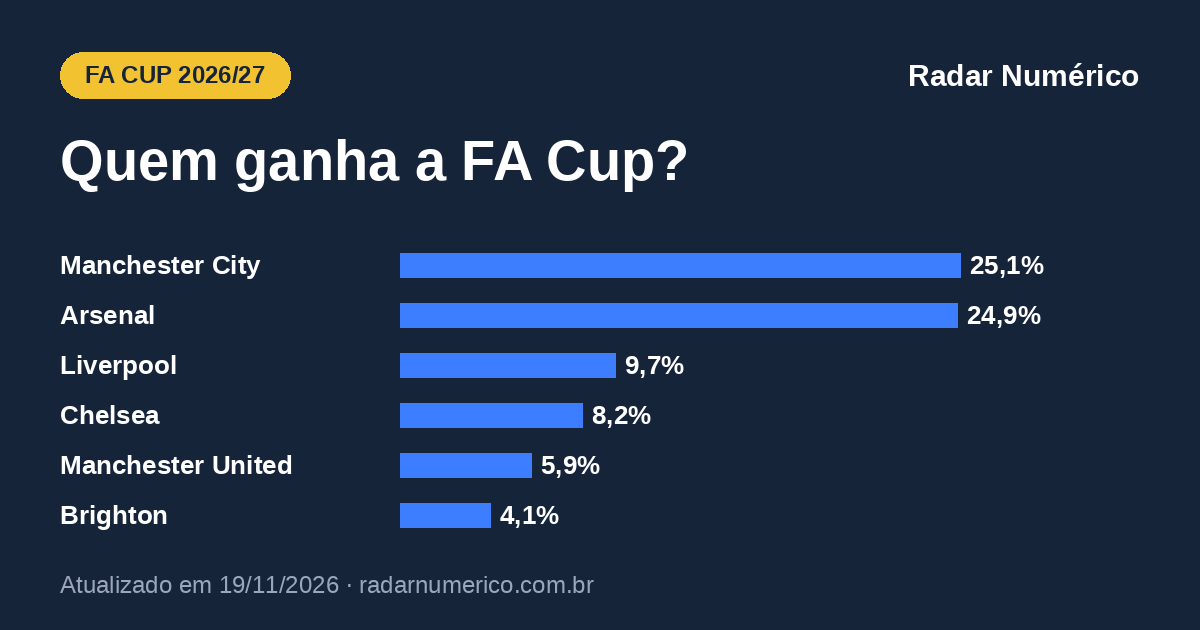
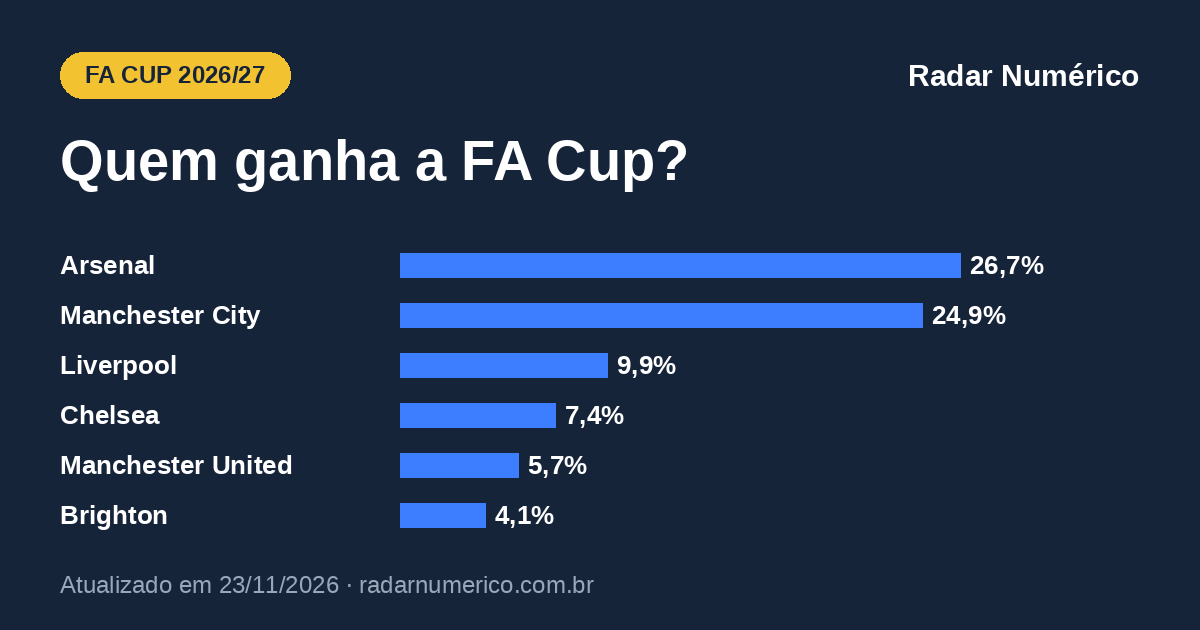
Ranking, ligas e copas europeias: atualização semanal 2026-11-23 - futebol/fa-cup
Claude-Session: https://claude.ai/code/session_014c9M3oryqlsr8hzscwb7oa

diff --git a/futebol/fa-cup/index.html b/futebol/fa-cup/index.html
@@ -13,11 +13,11 @@
 <meta property="og:title" content="FA Cup 2026/27: chances de título de cada time">
 <meta property="og:description" content="Probabilidades da FA Cup 2026/27: chance de cada time chegar às quartas, à semifinal, à final e de ser campeão.">
 <meta property="og:url" content="https://radarnumerico.com.br/futebol/fa-cup/">
-<meta property="og:image" content="https://radarnumerico.com.br/futebol/fa-cup/og.png?v=202611190848">
+<meta property="og:image" content="https://radarnumerico.com.br/futebol/fa-cup/og.png?v=202611230848">
 <meta property="og:image:width" content="1200">
 <meta property="og:image:height" content="630">
 <meta name="twitter:card" content="summary_large_image">
-<script type="application/ld+json">{"@context": "https://schema.org", "@graph": [{"@type": "WebPage", "@id": "https://radarnumerico.com.br/futebol/fa-cup/", "url": "https://radarnumerico.com.br/futebol/fa-cup/", "name": "FA Cup 2026/27: chances de título de cada time", "description": "Probabilidades da FA Cup 2026/27: chance de cada time chegar às quartas, à semifinal, à final e de ser campeão.", "inLanguage": "pt-BR", "dateModified": "2026-11-19T08:48:00-03:00", "isPartOf": {"@type": "WebSite", "name": "Radar Numérico", "url": "https://radarnumerico.com.br/"}, "about": {"@type": "Thing", "name": "FA Cup 2026/27"}}, {"@type": "BreadcrumbList", "itemListElement": [{"@type": "ListItem", "position": 1, "name": "Radar Numérico", "item": "https://radarnumerico.com.br/"}, {"@type": "ListItem", "position": 2, "name": "FA Cup 2026/27: probabilidades", "item": "https://radarnumerico.com.br/futebol/fa-cup/"}]}]}</script>
+<script type="application/ld+json">{"@context": "https://schema.org", "@graph": [{"@type": "WebPage", "@id": "https://radarnumerico.com.br/futebol/fa-cup/", "url": "https://radarnumerico.com.br/futebol/fa-cup/", "name": "FA Cup 2026/27: chances de título de cada time", "description": "Probabilidades da FA Cup 2026/27: chance de cada time chegar às quartas, à semifinal, à final e de ser campeão.", "inLanguage": "pt-BR", "dateModified": "2026-11-23T08:48:00-03:00", "isPartOf": {"@type": "WebSite", "name": "Radar Numérico", "url": "https://radarnumerico.com.br/"}, "about": {"@type": "Thing", "name": "FA Cup 2026/27"}}, {"@type": "BreadcrumbList", "itemListElement": [{"@type": "ListItem", "position": 1, "name": "Radar Numérico", "item": "https://radarnumerico.com.br/"}, {"@type": "ListItem", "position": 2, "name": "FA Cup 2026/27: probabilidades", "item": "https://radarnumerico.com.br/futebol/fa-cup/"}]}]}</script>
 <link rel="icon" type="image/png" href="/favicon.png">
 <link rel="apple-touch-icon" href="/apple-touch-icon.png">
 <link rel="preconnect" href="https://fonts.googleapis.com">
@@ -441,8 +441,8 @@ table.mzf td.bc{color:#fff}
 <header class="pg">
   <div class="kicker">Futebol · Inglaterra</div>
   <h1>FA Cup 2026/27: chances de título de cada time</h1>
-  <div class="selo" id="selo"><span>Atualizado em <b>19/11/2026 às 08h48</b></span><span>fase atual: <b>3ª fase</b></span><span>44 times vivos</span></div>
-  <p class="lede">O favorito ao título da FA Cup é o <b>Manchester City</b>, com 25,1%, seguido por Arsenal (24,9%) e Liverpool (9,7%). Calculamos, para os 44 times vivos, a chance de chegar a cada fase, simulando os jogos já marcados e o sorteio das fases seguintes 20 mil vezes. O campeão ganha vaga na Liga Europa.</p>
+  <div class="selo" id="selo"><span>Atualizado em <b>23/11/2026 às 08h48</b></span><span>fase atual: <b>3ª fase</b></span><span>44 times vivos</span></div>
+  <p class="lede">O favorito ao título da FA Cup é o <b>Arsenal</b>, com 26,7%, seguido por Manchester City (24,9%) e Liverpool (9,9%). Calculamos, para os 44 times vivos, a chance de chegar a cada fase, simulando os jogos já marcados e o sorteio das fases seguintes 20 mil vezes. O campeão ganha vaga na Liga Europa.</p>
 </header>
 
 <section class="g" id="s-trilha">
@@ -500,7 +500,7 @@ table.mzf td.bc{color:#fff}
 
 <div class="metod">
   <p class="marca">Radar Numérico</p>
-  <p id="rodape">Probabilidades da FA Cup 2026/27 atualizadas em 19/11/2026 às 08h48.</p>
+  <p id="rodape">Probabilidades da FA Cup 2026/27 atualizadas em 23/11/2026 às 08h48.</p>
   <p>Como calculamos: um algoritmo desenvolvido pelo economista Augusto Pellegrini estima a força de cada time a partir das cotações de mercado de todos os seus jogos recentes, em todas as competições. Simulamos a copa 20 mil vezes: os jogos já marcados e, depois, o sorteio de cada fase. Empate em jogo único vai à prorrogação e aos pênaltis. Fonte: Radar Numérico.</p>
 </div>
 </main>
@@ -509,7 +509,7 @@ table.mzf td.bc{color:#fff}
 <div id="tip" role="tooltip"></div>
 <div id="toast" role="status"></div>
 <script>
-const D = {"slug":"fa-cup","nome":"FA Cup","gerado_em":"2026-11-19T08:48","tams":[64,32,16,8,4,2,1],"rot":["3ª fase","4ª fase","5ª fase","Quartas","Semifinal","Final","Campeão"],"atual_rot":"3ª fase","cai_antes":"","n_vivos":44,"times":{"Middlesbrough":{"id":"2307","fases":[1.0,0.6623,0.3755,0.1726,0.0642,0.0175,0.0037],"campeao":0.0037,"forca":53.2,"cab":false},"Bolton Wanderers":{"id":"2312","fases":[1.0,0.4073,0.1263,0.0285,0.0047,0.0007,0.0001],"campeao":0.0001,"forca":38.3,"cab":false},"Blackburn Rovers":{"id":"2322","fases":[1.0,0.4672,0.1689,0.0444,0.009,0.001,0.0],"campeao":0.0,"forca":41.6,"cab":false},"Sheffield United":{"id":"3863","fases":[1.0,0.5131,0.2057,0.0618,0.0135,0.0024,0.0002],"campeao":0.0002,"forca":44.3,"cab":false},"Bristol City":{"id":"2328","fases":[1.0,0.499,0.1926,0.0546,0.0112,0.0016,0.0001],"campeao":0.0001,"forca":43.2,"cab":false},"Coventry City":{"id":"2330","fases":[1.0,0.6058,0.298,0.1193,0.0369,0.0083,0.0016],"campeao":0.0016,"forca":49.3,"cab":false},"Cardiff City":{"id":"2331","fases":[1.0,0.512,0.205,0.0609,0.0132,0.0018,0.0003],"campeao":0.0003,"forca":44.3,"cab":false},"Brentford":{"id":"2333","fases":[1.0,0.7882,0.5616,0.3527,0.1907,0.0892,0.0336],"campeao":0.0336,"forca":62.2,"cab":false},"Ipswich":{"id":"2336","fases":[1.0,0.6309,0.3313,0.1416,0.0464,0.0131,0.0024],"campeao":0.0024,"forca":51.2,"cab":false},"Wolverhampton":{"id":"2337","fases":[1.0,0.5647,0.2613,0.0931,0.0263,0.0054,0.0007],"campeao":0.0007,"forca":47.3,"cab":false},"Wrexham":{"id":"3875","fases":[1.0,0.5193,0.2196,0.0681,0.0143,0.0025,0.0002],"campeao":0.0002,"forca":44.9,"cab":false},"Bournemouth":{"id":"2342","fases":[1.0,0.7644,0.5208,0.3116,0.1582,0.0682,0.0245],"campeao":0.0245,"forca":60.4,"cab":false},"Watford":{"id":"2344","fases":[1.0,0.4328,0.1417,0.032,0.0053,0.0007,0.0001],"campeao":0.0001,"forca":39.4,"cab":false},"Portsmouth":{"id":"2345","fases":[1.0,0.4253,0.1375,0.0318,0.005,0.0004,0.0],"campeao":0.0,"forca":39.0,"cab":false},"Millwall":{"id":"2347","fases":[1.0,0.4491,0.1538,0.0384,0.0058,0.0008,0.0001],"campeao":0.0001,"forca":40.5,"cab":false},"Burnley":{"id":"2352","fases":[1.0,0.5127,0.2107,0.0646,0.0142,0.0024,0.0001],"campeao":0.0001,"forca":44.0,"cab":false},"Chelsea":{"id":"2354","fases":[1.0,0.8401,0.6507,0.4546,0.2877,0.163,0.0817],"campeao":0.0817,"forca":66.5,"cab":false},"Manchester United":{"id":"2356","fases":[1.0,0.8152,0.6119,0.4131,0.2437,0.1292,0.0588],"campeao":0.0588,"forca":65.0,"cab":false},"Swansea City":{"id":"2358","fases":[1.0,0.45,0.1535,0.0374,0.0068,0.0008,0.0001],"campeao":0.0001,"forca":40.3,"cab":false},"Stoke City":{"id":"2359","fases":[1.0,0.5022,0.1975,0.0575,0.012,0.0016,0.0004],"campeao":0.0004,"forca":43.5,"cab":false},"Aston Villa":{"id":"2361","fases":[1.0,0.7496,0.5021,0.2905,0.1436,0.059,0.021],"campeao":0.021,"forca":59.8,"cab":false},"West Bromwich Albion":{"id":"2363","fases":[1.0,0.4849,0.1883,0.0524,0.0103,0.0014,0.0001],"campeao":0.0001,"forca":42.7,"cab":false},"Sunderland":{"id":"2364","fases":[1.0,0.6966,0.4128,0.2049,0.0833,0.0256,0.0073],"campeao":0.0073,"forca":55.3,"cab":false},"West Ham":{"id":"2365","fases":[1.0,0.6846,0.4014,0.1964,0.0765,0.0246,0.0061],"campeao":0.0061,"forca":54.7,"cab":false},"Tottenham":{"id":"2366","fases":[1.0,0.7678,0.5291,0.3162,0.161,0.0703,0.0261],"campeao":0.0261,"forca":60.6,"cab":false},"Stockport County":{"id":"3904","fases":[1.0,0.4482,0.1553,0.0384,0.0065,0.0011,0.0001],"campeao":0.0001,"forca":40.5,"cab":false},"Charlton Athletic":{"id":"2390","fases":[1.0,0.4252,0.1377,0.0313,0.0046,0.0006,0.0001],"campeao":0.0001,"forca":39.2,"cab":false},"Fulham":{"id":"2392","fases":[1.0,0.7279,0.4626,0.2549,0.1161,0.0425,0.0132],"campeao":0.0132,"forca":57.7,"cab":false},"Birmingham":{"id":"2393","fases":[1.0,0.5767,0.2691,0.0946,0.0256,0.0059,0.0011],"campeao":0.0011,"forca":48.0,"cab":false},"Leeds":{"id":"2394","fases":[1.0,0.7306,0.476,0.2619,0.1232,0.0481,0.015],"campeao":0.015,"forca":58.2,"cab":false},"Nottingham Forest":{"id":"2395","fases":[1.0,0.7106,0.4435,0.2352,0.1013,0.0355,0.0111],"campeao":0.0111,"forca":56.8,"cab":false},"Norwich":{"id":"2411","fases":[1.0,0.5256,0.2233,0.071,0.017,0.0026,0.0003],"campeao":0.0003,"forca":45.3,"cab":false},"Derby County":{"id":"1162","fases":[1.0,0.4414,0.148,0.0359,0.0061,0.0008,0.0001],"campeao":0.0001,"forca":40.0,"cab":false},"Queens Park Rangers":{"id":"1163","fases":[1.0,0.4643,0.1699,0.0434,0.008,0.0009,0.0001],"campeao":0.0001,"forca":41.3,"cab":false},"Brighton":{"id":"2497","fases":[1.0,0.7954,0.5746,0.3666,0.2031,0.0966,0.0406],"campeao":0.0406,"forca":62.6,"cab":false},"Leicester City":{"id":"2525","fases":[1.0,0.4702,0.1661,0.0423,0.0084,0.0012,0.0001],"campeao":0.0001,"forca":41.4,"cab":false},"Everton":{"id":"2526","fases":[1.0,0.7264,0.4591,0.2517,0.1137,0.0435,0.0123],"campeao":0.0123,"forca":57.7,"cab":false},"Newcastle":{"id":"2527","fases":[1.0,0.7827,0.5536,0.3432,0.187,0.0848,0.0341],"campeao":0.0341,"forca":61.7,"cab":false},"Manchester City":{"id":"2528","fases":[1.0,0.9055,0.7832,0.6434,0.5003,0.365,0.2507],"campeao":0.2507,"forca":74.1,"cab":false},"Arsenal":{"id":"2536","fases":[1.0,0.9013,0.7853,0.6455,0.4972,0.3626,0.2494],"campeao":0.2494,"forca":74.2,"cab":false},"Crystal Palace":{"id":"2537","fases":[1.0,0.6634,0.3726,0.1719,0.0624,0.0177,0.0043],"campeao":0.0043,"forca":53.3,"cab":false},"Liverpool":{"id":"2538","fases":[1.0,0.8458,0.6688,0.4865,0.3169,0.188,0.0966],"campeao":0.0966,"forca":67.9,"cab":false},"Southampton":{"id":"2539","fases":[1.0,0.5925,0.2925,0.1124,0.0323,0.0078,0.0015],"campeao":0.0015,"forca":49.0,"cab":false},"Hull City":{"id":"2540","fases":[1.0,0.5346,0.2354,0.0773,0.0198,0.003,0.0002],"campeao":0.0002,"forca":45.7,"cab":false}},"ordem":["Manchester City","Arsenal","Liverpool","Chelsea","Manchester United","Brighton","Newcastle","Brentford","Tottenham","Bournemouth","Aston Villa","Leeds","Fulham","Everton","Nottingham Forest","Sunderland","West Ham","Crystal Palace","Middlesbrough","Ipswich","Coventry City","Southampton","Birmingham","Wolverhampton","Stoke City","Norwich","Cardiff City","Hull City","Wrexham","Sheffield United","Burnley","Bristol City","West Bromwich Albion","Leicester City","Queens Park Rangers","Millwall","Stockport County","Swansea City","Derby County","Watford","Charlton Athletic","Bolton Wanderers","Blackburn Rovers","Portsmouth"],"confrontos":[],"finais":[{"a":"Manchester City","b":"Arsenal","p":0.0862,"pa":0.4933},{"a":"Arsenal","b":"Liverpool","p":0.043,"pa":0.6388},{"a":"Manchester City","b":"Liverpool","p":0.0408,"pa":0.6438},{"a":"Chelsea","b":"Arsenal","p":0.0366,"pa":0.3265},{"a":"Chelsea","b":"Manchester City","p":0.036,"pa":0.3384},{"a":"Manchester United","b":"Arsenal","p":0.0294,"pa":0.3152}],"outros":0.0,"matriz":{"tipo":"sorteio","linhas":[["Manchester City",0.365],["Arsenal",0.3626],["Liverpool",0.188],["Chelsea",0.163],["Manchester United",0.1292]],"colunas":[["Arsenal",0.3626],["Liverpool",0.188],["Chelsea",0.163],["Manchester United",0.1292],["Brighton",0.0966]],"cel":[[0.0862,0.0408,0.036,0.0278,0.0226],[null,0.043,0.0366,0.0294,0.02],[null,null,0.0146,0.0131,0.0088],[null,null,null,0.0114,0.0076],[null,null,null,null,0.006]]},"chave":{"fases":["4ª fase","5ª fase","Quartas","Semifinal","Final"],"jogos":[[null,null],[null,null],[null,null],[null,null],[null,null],[null,null],[null,null],[null,null],[null,null],[null,null],[null,null],[null,null],[null,null],[null,null],[null,null],[null,null]],"atual":false,"p":null,"fixa":false},"SIGLA":{"Middlesbrough":"MID","Bolton Wanderers":"BOL","Blackburn Rovers":"BLA","Sheffield United":"SHE","Bristol City":"BRI","Coventry City":"COV","Cardiff City":"CAR","Brentford":"BRE","Ipswich":"IPS","Wolverhampton":"WOL","Wrexham":"WRE","Bournemouth":"BOU","Watford":"WAT","Portsmouth":"POR","Millwall":"MIL","Burnley":"BUR","Chelsea":"CHE","Manchester United":"MUN","Swansea City":"SWA","Stoke City":"STO","Aston Villa":"AVL","West Bromwich Albion":"WES","Sunderland":"SUN","West Ham":"WES","Tottenham":"TOT","Stockport County":"STO","Charlton Athletic":"CHA","Fulham":"FUL","Birmingham":"BIR","Leeds":"LEE","Nottingham Forest":"NOT","Norwich":"NOR","Derby County":"DER","Queens Park Rangers":"QUE","Brighton":"BRI","Leicester City":"LEI","Everton":"EVE","Newcastle":"NEW","Manchester City":"MCI","Arsenal":"ARS","Crystal Palace":"CRY","Liverpool":"LIV","Southampton":"SOU","Hull City":"HUL"},"SLUG":{"Middlesbrough":"middlesbrough","Bolton Wanderers":"bolton-wanderers","Blackburn Rovers":"blackburn-rovers","Sheffield United":"sheffield-united","Bristol City":"bristol-city","Coventry City":"coventry-city","Cardiff City":"cardiff-city","Brentford":"brentford","Ipswich":"ipswich","Wolverhampton":"wolverhampton","Wrexham":"wrexham","Bournemouth":"bournemouth","Watford":"watford","Portsmouth":"portsmouth","Millwall":"millwall","Burnley":"burnley","Chelsea":"chelsea","Manchester United":"manchester-united","Swansea City":"swansea-city","Stoke City":"stoke-city","Aston Villa":"aston-villa","West Bromwich Albion":"west-bromwich-albion","Sunderland":"sunderland","West Ham":"west-ham","Tottenham":"tottenham","Stockport County":"stockport-county","Charlton Athletic":"charlton-athletic","Fulham":"fulham","Birmingham":"birmingham","Leeds":"leeds","Nottingham Forest":"nottingham-forest","Norwich":"norwich","Derby County":"derby-county","Queens Park Rangers":"queens-park-rangers","Brighton":"brighton","Leicester City":"leicester-city","Everton":"everton","Newcastle":"newcastle","Manchester City":"manchester-city","Arsenal":"arsenal","Crystal Palace":"crystal-palace","Liverpool":"liverpool","Southampton":"southampton","Hull City":"hull-city"},"CORES":{"Middlesbrough":["#00843D","#FFFFFF"],"Bolton Wanderers":["#00843D","#FFFFFF"],"Blackburn Rovers":["#5B2C83","#FFFFFF"],"Sheffield United":["#F2C230","#FFFFFF"],"Bristol City":["#111111","#FFFFFF"],"Coventry City":["#5B2C83","#FFFFFF"],"Cardiff City":["#E35205","#FFFFFF"],"Brentford":["#6C1D45","#FFFFFF"],"Ipswich":["#3EA6DD","#FFFFFF"],"Wolverhampton":["#E35205","#FFFFFF"],"Wrexham":["#0055A4","#FFFFFF"],"Bournemouth":["#111111","#FFFFFF"],"Watford":["#3EA6DD","#FFFFFF"],"Portsmouth":["#00843D","#FFFFFF"],"Millwall":["#16243A","#FFFFFF"],"Burnley":["#3EA6DD","#FFFFFF"],"Chelsea":["#00843D","#FFFFFF"],"Manchester United":["#DA291C","#FBE122"],"Swansea City":["#00843D","#FFFFFF"],"Stoke City":["#5B2C83","#FFFFFF"],"Aston Villa":["#670E36","#95BFE5"],"West Bromwich Albion":["#3EA6DD","#FFFFFF"],"Sunderland":["#16243A","#FFFFFF"],"West Ham":["#5B2C83","#FFFFFF"],"Tottenham":["#E35205","#FFFFFF"],"Stockport County":["#00843D","#FFFFFF"],"Charlton Athletic":["#00843D","#FFFFFF"],"Fulham":["#F2C230","#FFFFFF"],"Birmingham":["#0055A4","#FFFFFF"],"Leeds":["#00843D","#FFFFFF"],"Nottingham Forest":["#E35205","#FFFFFF"],"Norwich":["#16243A","#FFFFFF"],"Derby County":["#111111","#FFFFFF"],"Queens Park Rangers":["#5B2C83","#FFFFFF"],"Brighton":["#5B2C83","#FFFFFF"],"Leicester City":["#5B2C83","#FFFFFF"],"Everton":["#5B2C83","#FFFFFF"],"Newcastle":["#6C1D45","#FFFFFF"],"Manchester City":["#6CABDD","#1C2C5B"],"Arsenal":["#EF0107","#FFFFFF"],"Crystal Palace":["#0055A4","#FFFFFF"],"Liverpool":["#C8102E","#00B2A9"],"Southampton":["#111111","#FFFFFF"],"Hull City":["#111111","#FFFFFF"]},"vaga":"Liga Europa","liga":"premier-league","liga_nome":"Premier League","nota_fase":"Os times da Premier League e da Championship entram na 3ª fase, em janeiro. A chave parte dos 64 times dessa fase; os clubes das divisões de baixo que vão chegar até lá ainda estão nas fases anteriores e entram na conta como times genéricos.","final":"Final em Wembley, em maio de 2027, em jogo único.","ultimo_jogo":{"data":"2026-11-09","hora":"16:30","m":"Plymouth Parkway","v":"Berkhamsted","gm":2,"gv":1,"rodada":"Round 1"}};
+const D = {"slug":"fa-cup","nome":"FA Cup","gerado_em":"2026-11-23T08:48","tams":[64,32,16,8,4,2,1],"rot":["3ª fase","4ª fase","5ª fase","Quartas","Semifinal","Final","Campeão"],"atual_rot":"3ª fase","cai_antes":"","n_vivos":44,"times":{"Middlesbrough":{"id":"2307","fases":[1.0,0.6669,0.3751,0.1679,0.0619,0.0174,0.004],"campeao":0.004,"forca":53.3,"cab":false},"Bolton Wanderers":{"id":"2312","fases":[1.0,0.4108,0.1309,0.0303,0.0049,0.0006,0.0001],"campeao":0.0001,"forca":38.5,"cab":false},"Blackburn Rovers":{"id":"2322","fases":[1.0,0.4652,0.1657,0.0408,0.0069,0.0008,0.0001],"campeao":0.0001,"forca":41.5,"cab":false},"Sheffield United":{"id":"3863","fases":[1.0,0.5129,0.2099,0.0619,0.0138,0.0021,0.0003],"campeao":0.0003,"forca":44.4,"cab":false},"Bristol City":{"id":"2328","fases":[1.0,0.4936,0.1908,0.0554,0.0115,0.0019,0.0003],"campeao":0.0003,"forca":43.4,"cab":false},"Coventry City":{"id":"2330","fases":[1.0,0.6046,0.302,0.1206,0.0372,0.0087,0.0019],"campeao":0.0019,"forca":49.7,"cab":false},"Cardiff City":{"id":"2331","fases":[1.0,0.507,0.204,0.0612,0.0143,0.0024,0.0002],"campeao":0.0002,"forca":44.3,"cab":false},"Brentford":{"id":"2333","fases":[1.0,0.7874,0.5625,0.3538,0.1912,0.0851,0.0321],"campeao":0.0321,"forca":62.4,"cab":false},"Ipswich":{"id":"2336","fases":[1.0,0.6281,0.3313,0.1376,0.044,0.0112,0.0015],"campeao":0.0015,"forca":51.1,"cab":false},"Wolverhampton":{"id":"2337","fases":[1.0,0.5697,0.2567,0.091,0.0241,0.0051,0.0008],"campeao":0.0008,"forca":47.5,"cab":false},"Wrexham":{"id":"3875","fases":[1.0,0.5168,0.2162,0.0664,0.0146,0.0027,0.0003],"campeao":0.0003,"forca":45.0,"cab":false},"Bournemouth":{"id":"2342","fases":[1.0,0.7558,0.5196,0.3063,0.1532,0.0643,0.024],"campeao":0.024,"forca":60.4,"cab":false},"Watford":{"id":"2344","fases":[1.0,0.4336,0.1409,0.033,0.0058,0.0008,0.0001],"campeao":0.0001,"forca":39.6,"cab":false},"Portsmouth":{"id":"2345","fases":[1.0,0.4329,0.1439,0.0343,0.0062,0.0006,0.0001],"campeao":0.0001,"forca":39.4,"cab":false},"Millwall":{"id":"2347","fases":[1.0,0.449,0.155,0.0385,0.0073,0.0007,0.0001],"campeao":0.0001,"forca":40.7,"cab":false},"Burnley":{"id":"2352","fases":[1.0,0.516,0.2024,0.0602,0.0135,0.0025,0.0004],"campeao":0.0004,"forca":44.3,"cab":false},"Chelsea":{"id":"2354","fases":[1.0,0.8341,0.644,0.4479,0.2782,0.154,0.0743],"campeao":0.0743,"forca":66.5,"cab":false},"Manchester United":{"id":"2356","fases":[1.0,0.8166,0.6115,0.4125,0.2457,0.1285,0.0565],"campeao":0.0565,"forca":65.1,"cab":false},"Swansea City":{"id":"2358","fases":[1.0,0.4553,0.157,0.0392,0.0064,0.001,0.0],"campeao":0.0,"forca":40.4,"cab":false},"Stoke City":{"id":"2359","fases":[1.0,0.4986,0.1983,0.0573,0.0124,0.0019,0.0003],"campeao":0.0003,"forca":43.6,"cab":false},"Aston Villa":{"id":"2361","fases":[1.0,0.7599,0.5113,0.3019,0.1507,0.0622,0.0228],"campeao":0.0228,"forca":60.2,"cab":false},"West Bromwich Albion":{"id":"2363","fases":[1.0,0.4899,0.1858,0.0517,0.0102,0.001,0.0001],"campeao":0.0001,"forca":42.9,"cab":false},"Sunderland":{"id":"2364","fases":[1.0,0.6949,0.4141,0.2112,0.0833,0.0265,0.0073],"campeao":0.0073,"forca":55.3,"cab":false},"West Ham":{"id":"2365","fases":[1.0,0.6848,0.4027,0.1953,0.0803,0.0261,0.0067],"campeao":0.0067,"forca":54.9,"cab":false},"Tottenham":{"id":"2366","fases":[1.0,0.7722,0.5284,0.3191,0.1633,0.0708,0.0249],"campeao":0.0249,"forca":61.0,"cab":false},"Stockport County":{"id":"3904","fases":[1.0,0.4466,0.1573,0.0384,0.0068,0.0008,0.0],"campeao":0.0,"forca":40.7,"cab":false},"Charlton Athletic":{"id":"2390","fases":[1.0,0.4312,0.1394,0.0319,0.0041,0.0004,0.0001],"campeao":0.0001,"forca":39.4,"cab":false},"Fulham":{"id":"2392","fases":[1.0,0.738,0.4775,0.2589,0.1203,0.0446,0.0146],"campeao":0.0146,"forca":58.1,"cab":false},"Birmingham":{"id":"2393","fases":[1.0,0.5764,0.2717,0.0988,0.0279,0.0056,0.0007],"campeao":0.0007,"forca":48.2,"cab":false},"Leeds":{"id":"2394","fases":[1.0,0.7358,0.4767,0.2631,0.1211,0.0471,0.014],"campeao":0.014,"forca":58.5,"cab":false},"Nottingham Forest":{"id":"2395","fases":[1.0,0.7138,0.4452,0.236,0.1011,0.0339,0.01],"campeao":0.01,"forca":57.0,"cab":false},"Norwich":{"id":"2411","fases":[1.0,0.5333,0.2315,0.074,0.0178,0.0034,0.0004],"campeao":0.0004,"forca":45.5,"cab":false},"Derby County":{"id":"1162","fases":[1.0,0.4451,0.15,0.0343,0.0062,0.0008,0.0001],"campeao":0.0001,"forca":40.2,"cab":false},"Queens Park Rangers":{"id":"1163","fases":[1.0,0.4617,0.1643,0.0394,0.0083,0.0008,0.0001],"campeao":0.0001,"forca":41.5,"cab":false},"Brighton":{"id":"2497","fases":[1.0,0.8034,0.5791,0.3723,0.206,0.1003,0.0408],"campeao":0.0408,"forca":63.1,"cab":false},"Leicester City":{"id":"2525","fases":[1.0,0.461,0.1661,0.0413,0.008,0.0014,0.0001],"campeao":0.0001,"forca":41.5,"cab":false},"Everton":{"id":"2526","fases":[1.0,0.726,0.4592,0.2492,0.1105,0.0415,0.0127],"campeao":0.0127,"forca":57.8,"cab":false},"Newcastle":{"id":"2527","fases":[1.0,0.7773,0.5383,0.3303,0.1709,0.0757,0.0268],"campeao":0.0268,"forca":61.5,"cab":false},"Manchester City":{"id":"2528","fases":[1.0,0.9043,0.7834,0.6425,0.497,0.3645,0.2493],"campeao":0.2493,"forca":74.4,"cab":false},"Arsenal":{"id":"2536","fases":[1.0,0.9072,0.7914,0.6563,0.514,0.3825,0.267],"campeao":0.267,"forca":74.8,"cab":false},"Crystal Palace":{"id":"2537","fases":[1.0,0.6601,0.3671,0.1683,0.0609,0.0174,0.0038],"campeao":0.0038,"forca":53.2,"cab":false},"Liverpool":{"id":"2538","fases":[1.0,0.8516,0.6741,0.4901,0.3209,0.1902,0.099],"campeao":0.099,"forca":68.3,"cab":false},"Southampton":{"id":"2539","fases":[1.0,0.5952,0.2935,0.1163,0.0342,0.0076,0.0011],"campeao":0.0011,"forca":49.3,"cab":false},"Hull City":{"id":"2540","fases":[1.0,0.5214,0.2208,0.0713,0.0167,0.0022,0.0003],"campeao":0.0003,"forca":45.3,"cab":false}},"ordem":["Arsenal","Manchester City","Liverpool","Chelsea","Manchester United","Brighton","Brentford","Newcastle","Tottenham","Bournemouth","Aston Villa","Fulham","Leeds","Everton","Nottingham Forest","Sunderland","West Ham","Middlesbrough","Crystal Palace","Coventry City","Ipswich","Southampton","Wolverhampton","Birmingham","Norwich","Burnley","Hull City","Wrexham","Sheffield United","Stoke City","Bristol City","Cardiff City","West Bromwich Albion","Blackburn Rovers","Queens Park Rangers","Leicester City","Millwall","Derby County","Watford","Portsmouth","Charlton Athletic","Bolton Wanderers","Stockport County","Swansea City"],"confrontos":[],"finais":[{"a":"Manchester City","b":"Arsenal","p":0.092,"pa":0.4908},{"a":"Manchester City","b":"Liverpool","p":0.0432,"pa":0.6335},{"a":"Arsenal","b":"Liverpool","p":0.043,"pa":0.6458},{"a":"Chelsea","b":"Arsenal","p":0.0367,"pa":0.3165},{"a":"Chelsea","b":"Manchester City","p":0.0331,"pa":0.3343},{"a":"Manchester United","b":"Arsenal","p":0.0305,"pa":0.2885}],"outros":0.0,"matriz":{"tipo":"sorteio","linhas":[["Arsenal",0.3825],["Manchester City",0.3645],["Liverpool",0.1902],["Chelsea",0.154],["Manchester United",0.1285]],"colunas":[["Manchester City",0.3645],["Liverpool",0.1902],["Chelsea",0.154],["Manchester United",0.1285],["Brighton",0.1003]],"cel":[[0.092,0.043,0.0367,0.0305,0.0238],[null,0.0432,0.0331,0.0293,0.0219],[null,null,0.0163,0.0119,0.0112],[null,null,null,0.0093,0.0076],[null,null,null,null,0.0053]]},"chave":{"fases":["4ª fase","5ª fase","Quartas","Semifinal","Final"],"jogos":[[null,null],[null,null],[null,null],[null,null],[null,null],[null,null],[null,null],[null,null],[null,null],[null,null],[null,null],[null,null],[null,null],[null,null],[null,null],[null,null]],"atual":false,"p":null,"fixa":false},"SIGLA":{"Middlesbrough":"MID","Bolton Wanderers":"BOL","Blackburn Rovers":"BLA","Sheffield United":"SHE","Bristol City":"BRI","Coventry City":"COV","Cardiff City":"CAR","Brentford":"BRE","Ipswich":"IPS","Wolverhampton":"WOL","Wrexham":"WRE","Bournemouth":"BOU","Watford":"WAT","Portsmouth":"POR","Millwall":"MIL","Burnley":"BUR","Chelsea":"CHE","Manchester United":"MUN","Swansea City":"SWA","Stoke City":"STO","Aston Villa":"AVL","West Bromwich Albion":"WES","Sunderland":"SUN","West Ham":"WES","Tottenham":"TOT","Stockport County":"STO","Charlton Athletic":"CHA","Fulham":"FUL","Birmingham":"BIR","Leeds":"LEE","Nottingham Forest":"NOT","Norwich":"NOR","Derby County":"DER","Queens Park Rangers":"QUE","Brighton":"BRI","Leicester City":"LEI","Everton":"EVE","Newcastle":"NEW","Manchester City":"MCI","Arsenal":"ARS","Crystal Palace":"CRY","Liverpool":"LIV","Southampton":"SOU","Hull City":"HUL"},"SLUG":{"Middlesbrough":"middlesbrough","Bolton Wanderers":"bolton-wanderers","Blackburn Rovers":"blackburn-rovers","Sheffield United":"sheffield-united","Bristol City":"bristol-city","Coventry City":"coventry-city","Cardiff City":"cardiff-city","Brentford":"brentford","Ipswich":"ipswich","Wolverhampton":"wolverhampton","Wrexham":"wrexham","Bournemouth":"bournemouth","Watford":"watford","Portsmouth":"portsmouth","Millwall":"millwall","Burnley":"burnley","Chelsea":"chelsea","Manchester United":"manchester-united","Swansea City":"swansea-city","Stoke City":"stoke-city","Aston Villa":"aston-villa","West Bromwich Albion":"west-bromwich-albion","Sunderland":"sunderland","West Ham":"west-ham","Tottenham":"tottenham","Stockport County":"stockport-county","Charlton Athletic":"charlton-athletic","Fulham":"fulham","Birmingham":"birmingham","Leeds":"leeds","Nottingham Forest":"nottingham-forest","Norwich":"norwich","Derby County":"derby-county","Queens Park Rangers":"queens-park-rangers","Brighton":"brighton","Leicester City":"leicester-city","Everton":"everton","Newcastle":"newcastle","Manchester City":"manchester-city","Arsenal":"arsenal","Crystal Palace":"crystal-palace","Liverpool":"liverpool","Southampton":"southampton","Hull City":"hull-city"},"CORES":{"Middlesbrough":["#00843D","#FFFFFF"],"Bolton Wanderers":["#00843D","#FFFFFF"],"Blackburn Rovers":["#5B2C83","#FFFFFF"],"Sheffield United":["#F2C230","#FFFFFF"],"Bristol City":["#111111","#FFFFFF"],"Coventry City":["#5B2C83","#FFFFFF"],"Cardiff City":["#E35205","#FFFFFF"],"Brentford":["#6C1D45","#FFFFFF"],"Ipswich":["#3EA6DD","#FFFFFF"],"Wolverhampton":["#E35205","#FFFFFF"],"Wrexham":["#0055A4","#FFFFFF"],"Bournemouth":["#111111","#FFFFFF"],"Watford":["#3EA6DD","#FFFFFF"],"Portsmouth":["#00843D","#FFFFFF"],"Millwall":["#16243A","#FFFFFF"],"Burnley":["#3EA6DD","#FFFFFF"],"Chelsea":["#00843D","#FFFFFF"],"Manchester United":["#DA291C","#FBE122"],"Swansea City":["#00843D","#FFFFFF"],"Stoke City":["#5B2C83","#FFFFFF"],"Aston Villa":["#670E36","#95BFE5"],"West Bromwich Albion":["#3EA6DD","#FFFFFF"],"Sunderland":["#16243A","#FFFFFF"],"West Ham":["#5B2C83","#FFFFFF"],"Tottenham":["#E35205","#FFFFFF"],"Stockport County":["#00843D","#FFFFFF"],"Charlton Athletic":["#00843D","#FFFFFF"],"Fulham":["#F2C230","#FFFFFF"],"Birmingham":["#0055A4","#FFFFFF"],"Leeds":["#00843D","#FFFFFF"],"Nottingham Forest":["#E35205","#FFFFFF"],"Norwich":["#16243A","#FFFFFF"],"Derby County":["#111111","#FFFFFF"],"Queens Park Rangers":["#5B2C83","#FFFFFF"],"Brighton":["#5B2C83","#FFFFFF"],"Leicester City":["#5B2C83","#FFFFFF"],"Everton":["#5B2C83","#FFFFFF"],"Newcastle":["#6C1D45","#FFFFFF"],"Manchester City":["#6CABDD","#1C2C5B"],"Arsenal":["#EF0107","#FFFFFF"],"Crystal Palace":["#0055A4","#FFFFFF"],"Liverpool":["#C8102E","#00B2A9"],"Southampton":["#111111","#FFFFFF"],"Hull City":["#111111","#FFFFFF"]},"vaga":"Liga Europa","liga":"premier-league","liga_nome":"Premier League","nota_fase":"Os times da Premier League e da Championship entram na 3ª fase, em janeiro. A chave parte dos 64 times dessa fase; os clubes das divisões de baixo que vão chegar até lá ainda estão nas fases anteriores e entram na conta como times genéricos.","final":"Final em Wembley, em maio de 2027, em jogo único.","ultimo_jogo":{"data":"2026-11-09","hora":"16:30","m":"Plymouth Parkway","v":"Berkhamsted","gm":2,"gv":1,"rodada":"Round 1"}};
 const T = D.times, ORD = D.ordem;
 const $ = s => document.querySelector(s);
 const SLUG = D.SLUG, SIGLA = D.SIGLA, CORES = D.CORES, ESC_DIR = 'escudos/';
